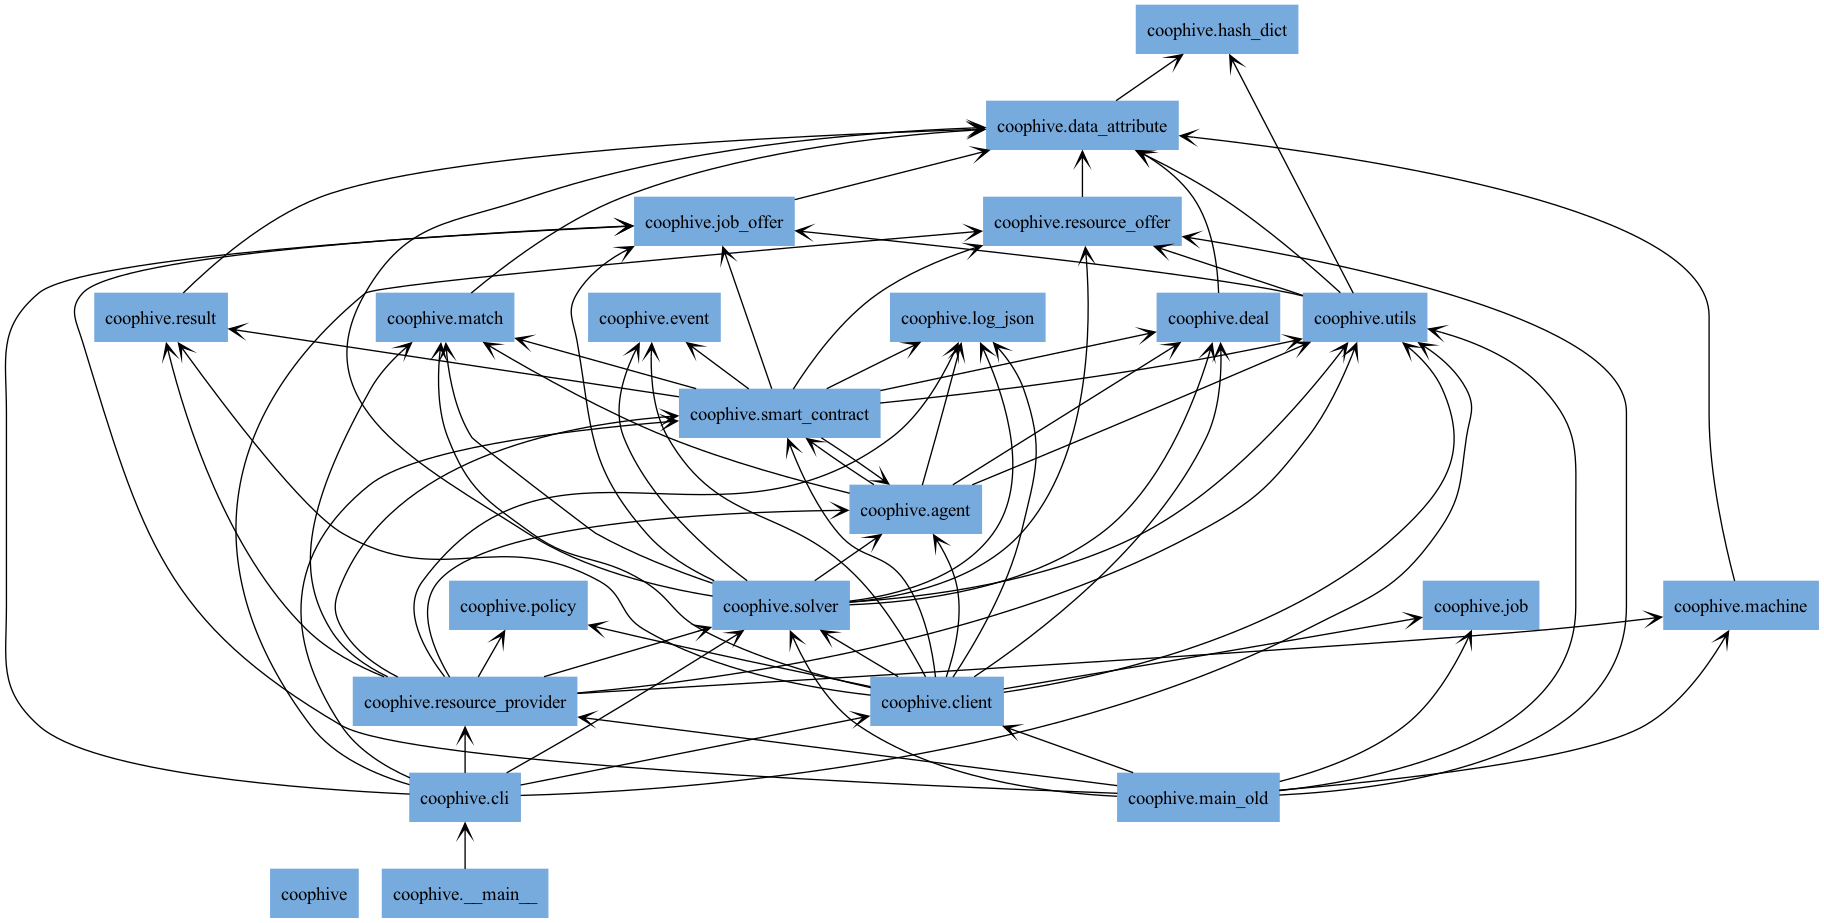
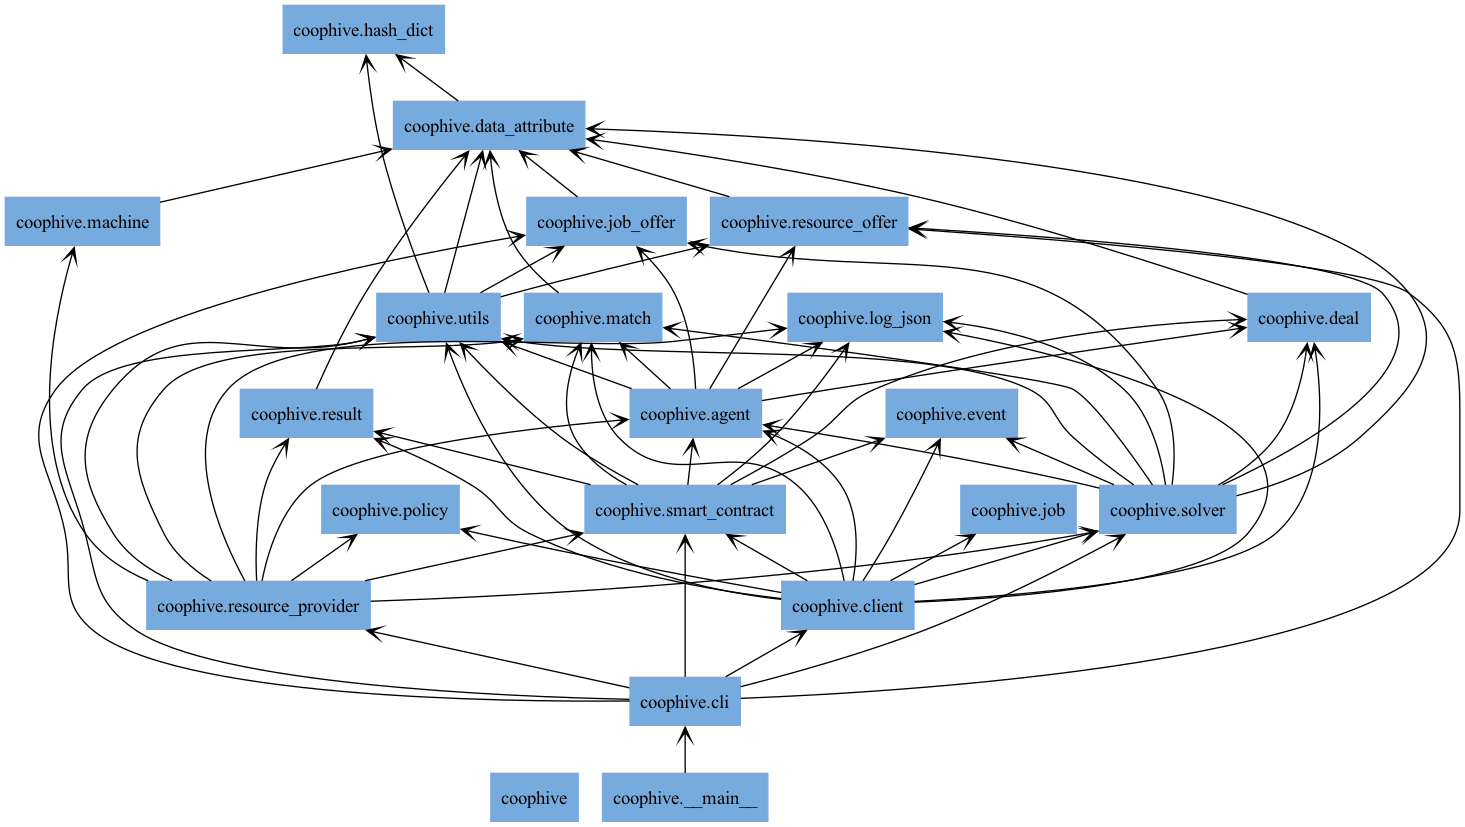
fix: cicd, solve #49

diff --git a/coophive/smart_contract.py b/coophive/smart_contract.py
@@ -1,4 +1,4 @@
-"""This module defines the SmartContract and LocalInformation classes.
+"""This module defines the SmartContract class.
 
 It handles the operations and logic associated with smart contracts, including transactions, deals, matches, and results.
 """
@@ -6,15 +6,13 @@ It handles the operations and logic associated with smart contracts, including t
 import logging
 import os
 
-from coophive.agent import Agent, LocalInformation
+from coophive.agent import LocalInformation
 from coophive.deal import Deal
 from coophive.event import Event
-from coophive.job_offer import JobOffer
 from coophive.log_json import log_json
 from coophive.match import Match
-from coophive.resource_offer import ResourceOffer
 from coophive.result import Result
-from coophive.utils import IPFS, AgentType, Tx
+from coophive.utils import Tx
 
 
 class SmartContract:
@@ -100,6 +98,10 @@ class SmartContract:
             self._agree_to_match_client(match, tx)
         if match.get_resource_provider_signed() and match.get_client_signed():
             self.matches_made_in_current_step.append(match)
+
+    def subscribe_event(self, handler):
+        """Subscribe an event handler to receive emitted events."""
+        self.event_handlers.append(handler)
 
     def emit_event(self, event: Event):
         """Emit an event and notify all subscribed event handlers."""
@@ -391,134 +393,3 @@ class SmartContract:
         self.matches_made_in_current_step.clear()
         self.results_posted_in_current_step.clear()
         self._log_balances()
-
-
-class LocalInformation:
-    """A class to manage local information of agents, resource offers, and job offers.
-
-    Attributes:
-        block_number (int): The block number for the current state.
-        resource_providers (dict): Mapping from wallet address to resource provider metadata.
-        clients (dict): Mapping from wallet address to client metadata.
-        solvers (dict): Mapping from wallet address to solver metadata.
-        mediators (dict): Mapping from wallet address to mediator metadata.
-        directories (dict): Mapping from wallet address to directory metadata.
-        resource_offers (dict): Mapping from offer ID to resource offer data.
-        job_offers (dict): Mapping from offer ID to job offer data.
-    """
-
-    ipfs = IPFS()
-
-    def __init__(self):
-        """Initialize the LocalInformation."""
-        self.block_number = 0
-        self.resource_providers = {}
-        self.clients = {}
-        self.solvers = {}
-        self.mediators = {}
-        self.directories = {}
-        self.resource_offers: dict[str, ResourceOffer] = {}
-        self.job_offers: dict[str, JobOffer] = {}
-
-    def add_agent(
-        self,
-        agent_type: AgentType,
-        public_key: str,
-        agent: Agent,
-    ):
-        """Add an agent to the appropriate category based on its type.
-
-        Args:
-            agent_type (AgentType): The type of agent.
-            public_key (str): The public key of the agent.
-            agent (Agent): Agent to add.
-        """
-        match agent_type:
-            case AgentType.RESOURCE_PROVIDER:
-                self.resource_providers[public_key] = agent
-            case AgentType.CLIENT:
-                self.clients[public_key] = agent
-            case AgentType.SOLVER:
-                self.solvers[public_key] = agent
-            case AgentType.MEDIATOR:
-                self.mediators[public_key] = agent
-            case AgentType.DIRECTORY:
-                self.directories[public_key] = agent
-
-    def remove_agent(self, agent_type: AgentType, public_key: str):
-        """Remove an agent from the appropriate category based on its type.
-
-        Args:
-            agent_type (AgentType): The type of agent.
-            public_key (str): The public key of the agent.
-        """
-        match agent_type:
-            case AgentType.RESOURCE_PROVIDER:
-                self.resource_providers.pop(public_key)
-            case AgentType.CLIENT:
-                self.clients.pop(public_key)
-            case AgentType.SOLVER:
-                self.solvers.pop(public_key)
-            case AgentType.MEDIATOR:
-                self.mediators.pop(public_key)
-            case AgentType.DIRECTORY:
-                self.directories.pop(public_key)
-
-    def get_list_of_agents(self, agent_type: AgentType):
-        """Get a list of agents of a specific type.
-
-        Args:
-            agent_type (AgentType): The type of agent.
-
-        Returns:
-            dict: A dictionary of agents with public keys.
-        """
-        match agent_type:
-            case AgentType.RESOURCE_PROVIDER:
-                return self.resource_providers
-            case AgentType.CLIENT:
-                return self.clients
-            case AgentType.SOLVER:
-                return self.solvers
-            case AgentType.MEDIATOR:
-                return self.mediators
-            case AgentType.DIRECTORY:
-                return self.directories
-
-    def add_resource_offer(self, id: str, data):
-        """Add a resource offer to the local information and IPFS."""
-        logging.info("Adding resource offer locally:")
-        self.resource_offers[id] = data
-        logging.info("Adding resource offer to IPFS:")
-        self.ipfs.add(data)
-
-    def add_job_offer(self, id: str, data):
-        """Add a job offer to the local information and IPFS."""
-        logging.info("Adding job offer locally:")
-        self.job_offers[id] = data
-        logging.info("Adding job offer to IPFS:")
-        self.ipfs.add(data)
-
-    def get_resource_offers(self):
-        """Get the resource offers in the local information."""
-        return self.resource_offers
-
-    def get_job_offers(self):
-        """Get the job offers in the local information."""
-        return self.job_offers
-
-    def add_resource_provider(self, resource_provider):
-        """Add a resource provider to the local information."""
-        self.resource_providers[resource_provider.get_public_key()] = resource_provider
-
-    def get_resource_providers(self):
-        """Get the resource providers in the local information."""
-        return self.resource_providers
-
-    def add_client(self, client):
-        """Add a client to the local information."""
-        self.clients[client.get_public_key()] = client
-
-    def get_clients(self):
-        """Get the clients in the local information."""
-        return self.clients

diff --git a/coophive/agent.py b/coophive/agent.py
@@ -7,10 +7,11 @@ import logging
 import os
 
 from coophive.deal import Deal
+from coophive.job_offer import JobOffer
 from coophive.log_json import log_json
 from coophive.match import Match
-from coophive.smart_contract import LocalInformation
-from coophive.utils import AgentType, Tx
+from coophive.resource_offer import ResourceOffer
+from coophive.utils import IPFS, AgentType, Tx
 
 
 class Agent:
@@ -173,3 +174,134 @@ class Agent:
         for deal_id in self.deals_finished_in_current_step:
             del self.current_deals[deal_id]
         self.deals_finished_in_current_step.clear()
+
+
+class LocalInformation:
+    """A class to manage local information.
+
+    Attributes:
+        block_number (int): The block number for the current state.
+        resource_providers (dict): Mapping from wallet address to resource provider metadata.
+        clients (dict): Mapping from wallet address to client metadata.
+        solvers (dict): Mapping from wallet address to solver metadata.
+        mediators (dict): Mapping from wallet address to mediator metadata.
+        directories (dict): Mapping from wallet address to directory metadata.
+        resource_offers (dict): Mapping from offer ID to resource offer data.
+        job_offers (dict): Mapping from offer ID to job offer data.
+    """
+
+    ipfs = IPFS()
+
+    def __init__(self):
+        """Initialize the LocalInformation."""
+        self.block_number = 0
+        self.resource_providers = {}
+        self.clients = {}
+        self.solvers = {}
+        self.mediators = {}
+        self.directories = {}
+        self.resource_offers: dict[str, ResourceOffer] = {}
+        self.job_offers: dict[str, JobOffer] = {}
+
+    def add_agent(
+        self,
+        agent_type: AgentType,
+        public_key: str,
+        agent: Agent,
+    ):
+        """Add an agent to the appropriate category based on its type.
+
+        Args:
+            agent_type (AgentType): The type of agent.
+            public_key (str): The public key of the agent.
+            agent (Agent): Agent to add.
+        """
+        match agent_type:
+            case AgentType.RESOURCE_PROVIDER:
+                self.resource_providers[public_key] = agent
+            case AgentType.CLIENT:
+                self.clients[public_key] = agent
+            case AgentType.SOLVER:
+                self.solvers[public_key] = agent
+            case AgentType.MEDIATOR:
+                self.mediators[public_key] = agent
+            case AgentType.DIRECTORY:
+                self.directories[public_key] = agent
+
+    def remove_agent(self, agent_type: AgentType, public_key: str):
+        """Remove an agent from the appropriate category based on its type.
+
+        Args:
+            agent_type (AgentType): The type of agent.
+            public_key (str): The public key of the agent.
+        """
+        match agent_type:
+            case AgentType.RESOURCE_PROVIDER:
+                self.resource_providers.pop(public_key)
+            case AgentType.CLIENT:
+                self.clients.pop(public_key)
+            case AgentType.SOLVER:
+                self.solvers.pop(public_key)
+            case AgentType.MEDIATOR:
+                self.mediators.pop(public_key)
+            case AgentType.DIRECTORY:
+                self.directories.pop(public_key)
+
+    def get_list_of_agents(self, agent_type: AgentType):
+        """Get a list of agents of a specific type.
+
+        Args:
+            agent_type (AgentType): The type of agent.
+
+        Returns:
+            dict: A dictionary of agents with public keys.
+        """
+        match agent_type:
+            case AgentType.RESOURCE_PROVIDER:
+                return self.resource_providers
+            case AgentType.CLIENT:
+                return self.clients
+            case AgentType.SOLVER:
+                return self.solvers
+            case AgentType.MEDIATOR:
+                return self.mediators
+            case AgentType.DIRECTORY:
+                return self.directories
+
+    def add_resource_offer(self, id: str, data):
+        """Add a resource offer to the local information and IPFS."""
+        logging.info("Adding resource offer locally:")
+        self.resource_offers[id] = data
+        logging.info("Adding resource offer to IPFS:")
+        self.ipfs.add(data)
+
+    def add_job_offer(self, id: str, data):
+        """Add a job offer to the local information and IPFS."""
+        logging.info("Adding job offer locally:")
+        self.job_offers[id] = data
+        logging.info("Adding job offer to IPFS:")
+        self.ipfs.add(data)
+
+    def get_resource_offers(self):
+        """Get the resource offers in the local information."""
+        return self.resource_offers
+
+    def get_job_offers(self):
+        """Get the job offers in the local information."""
+        return self.job_offers
+
+    def add_resource_provider(self, resource_provider):
+        """Add a resource provider to the local information."""
+        self.resource_providers[resource_provider.get_public_key()] = resource_provider
+
+    def get_resource_providers(self):
+        """Get the resource providers in the local information."""
+        return self.resource_providers
+
+    def add_client(self, client):
+        """Add a client to the local information."""
+        self.clients[client.get_public_key()] = client
+
+    def get_clients(self):
+        """Get the clients in the local information."""
+        return self.clients
